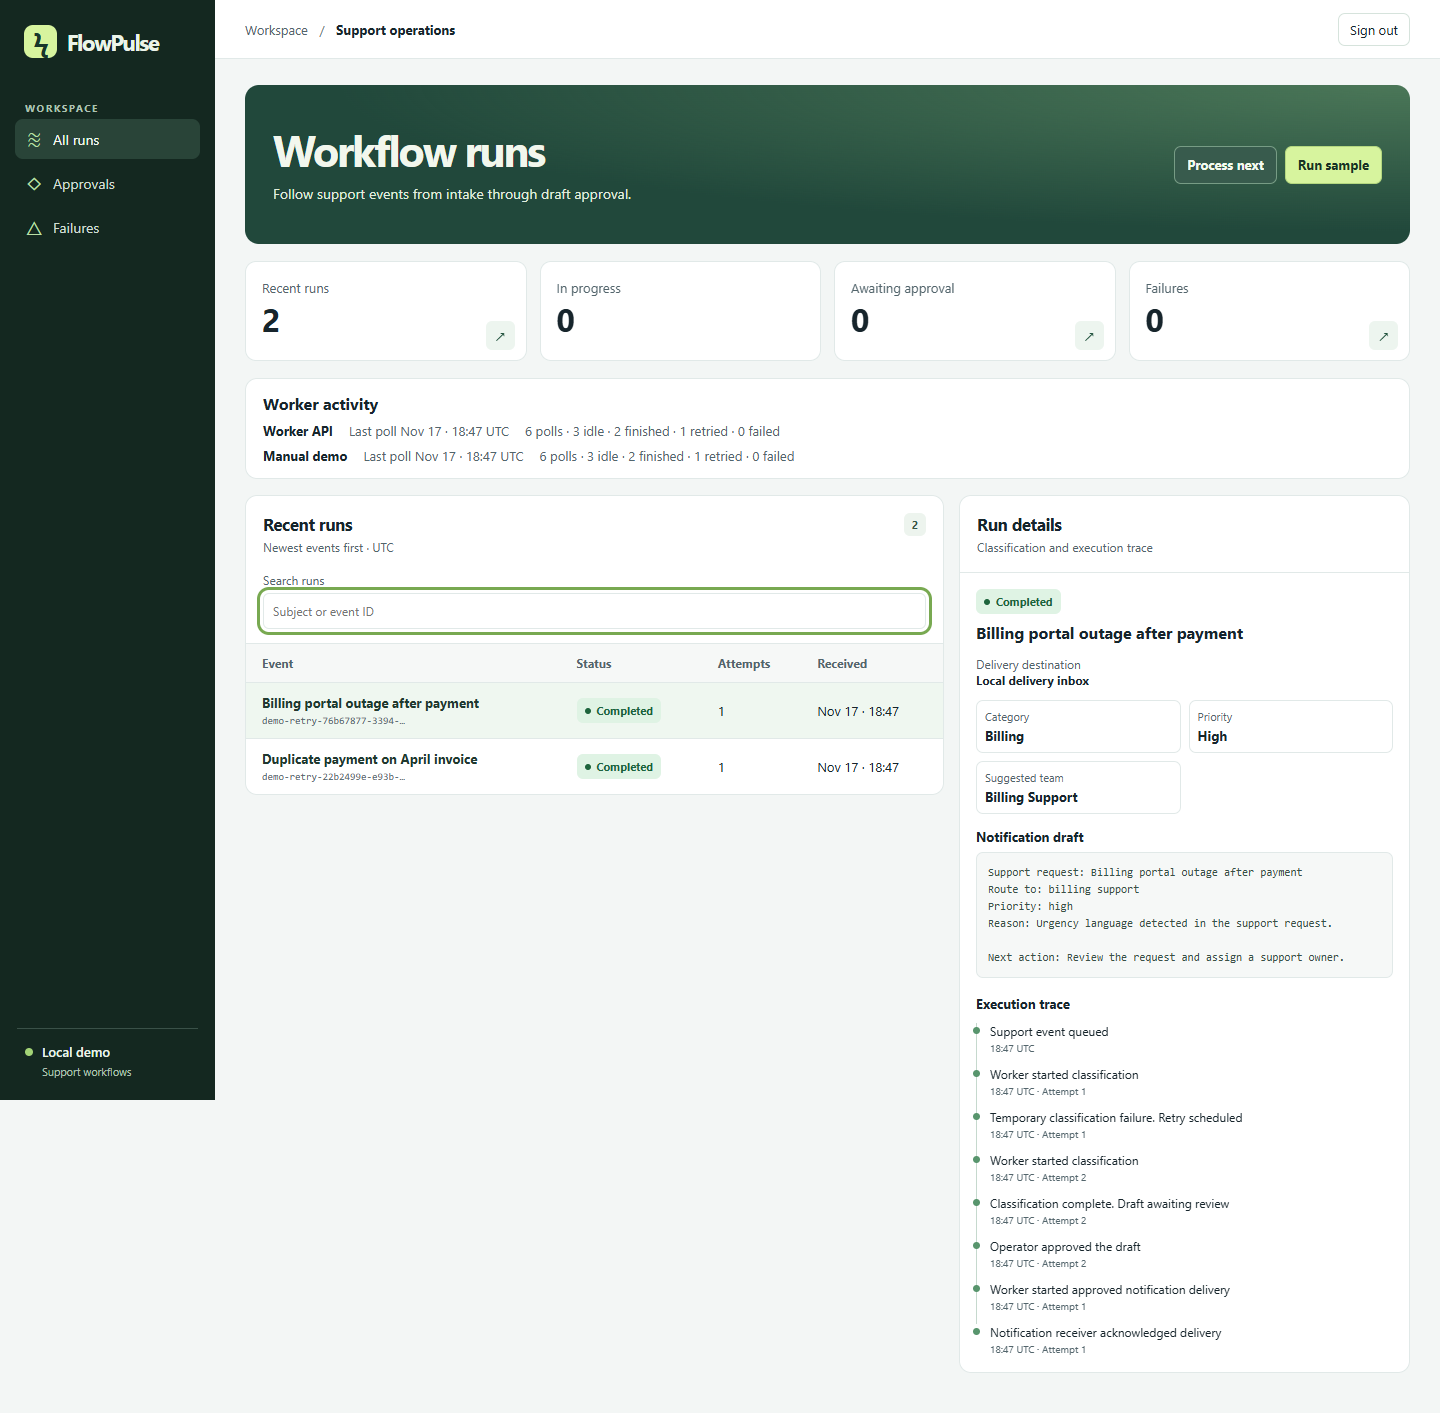
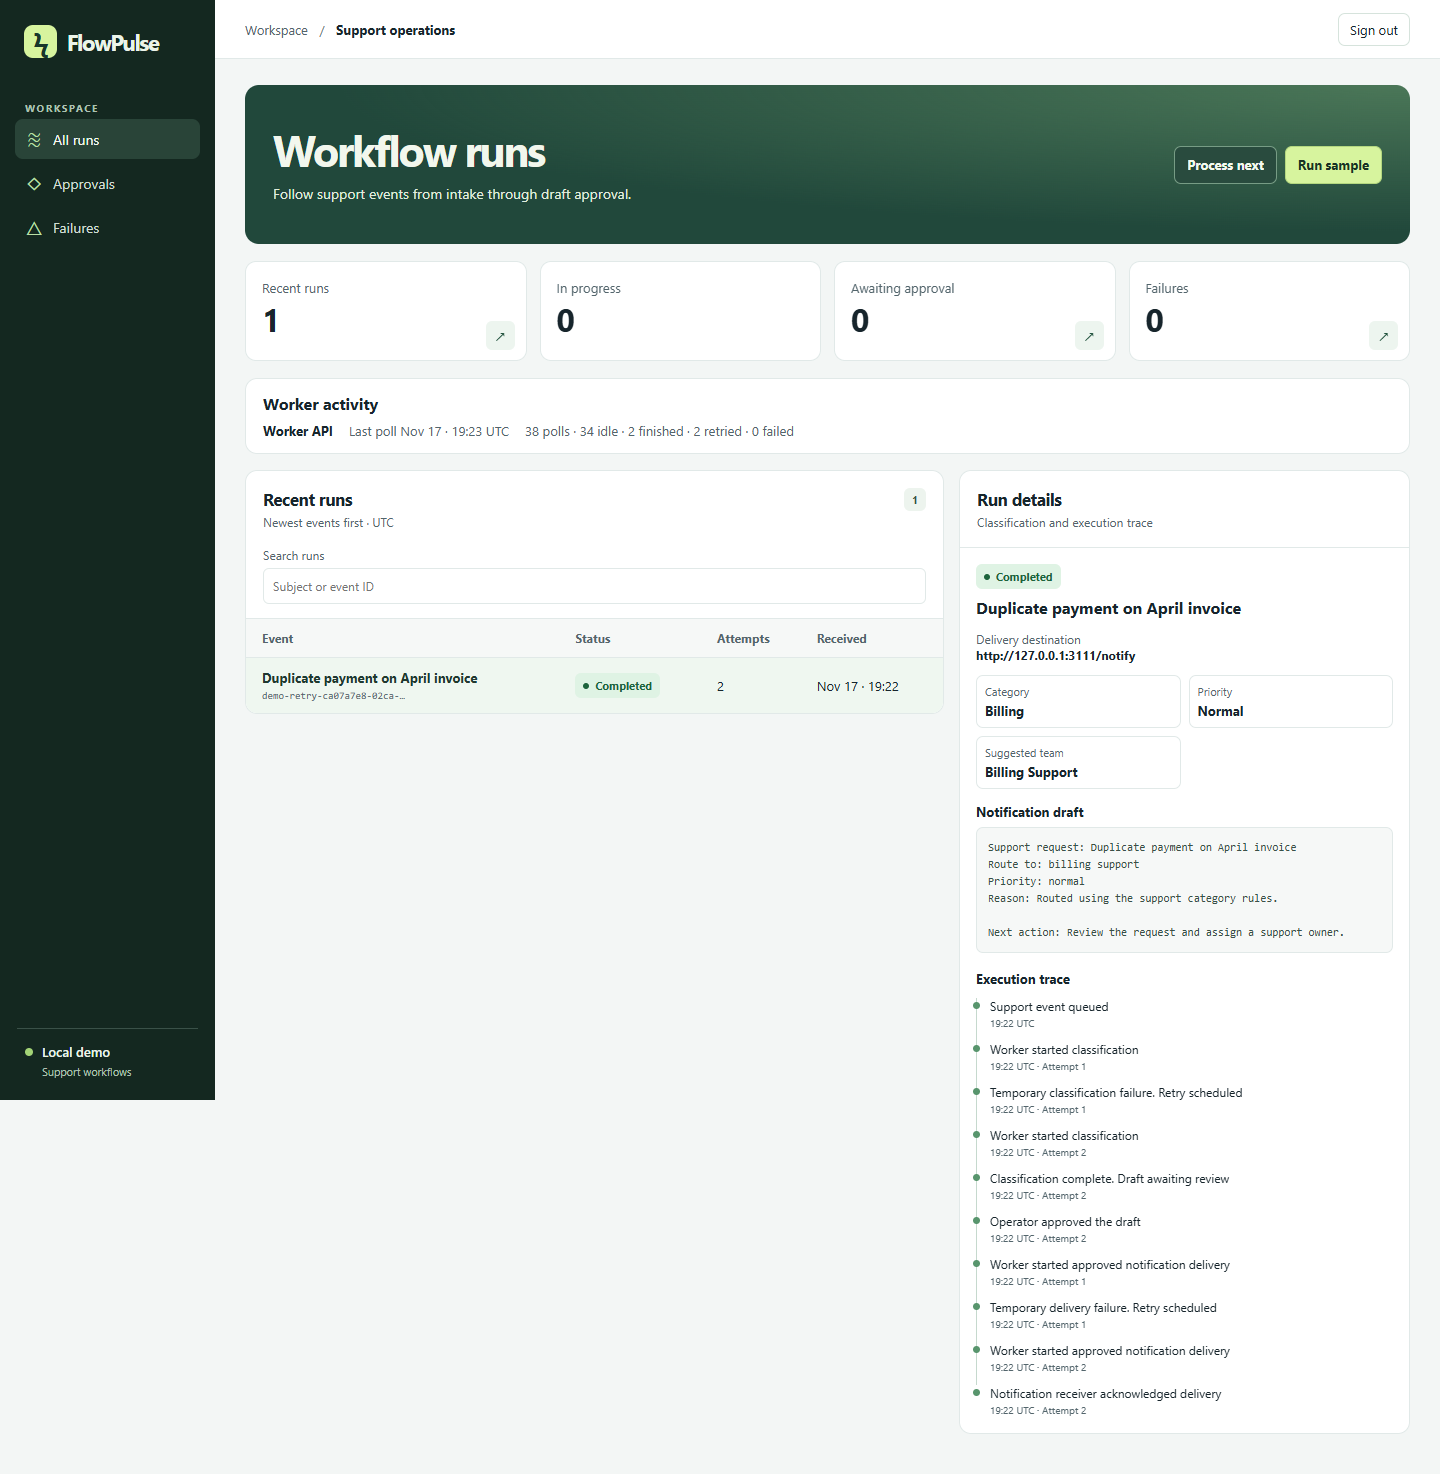
Deliver approved events to an idempotent local receiver

diff --git a/tests/receiver.test.ts b/tests/receiver.test.ts
@@ -1,0 +1,33 @@
+import assert from "node:assert/strict";
+import { randomUUID } from "node:crypto";
+import type { AddressInfo } from "node:net";
+import { test } from "node:test";
+import { createReceiver } from "../scripts/receiver.mjs";
+import { DeliveryError, webhookConnector } from "../src/connector";
+import { readSettings } from "../src/settings";
+
+test("real HTTP receiver deduplicates a lost acknowledgement and rejects changed content or credentials", async t => {
+  const token = "receiver-integration-credential-only";
+  const receiver = createReceiver({ token, dropFirstAck: true });
+  await new Promise<void>(resolve => receiver.server.listen(0, "127.0.0.1", resolve));
+  t.after(() => receiver.close());
+  const origin = "http://127.0.0.1:" + (receiver.server.address() as AddressInfo).port;
+  const connector = webhookConnector(origin + "/notify", token);
+  const notice = { id: randomUUID(), draft: "Approved local notification" };
+  await assert.rejects(connector.send(notice), error => error instanceof DeliveryError && error.transient);
+  await connector.send(notice);
+  await connector.send(notice);
+  const result = await fetch(origin + "/inbox", { headers: { Authorization: "Bearer " + token } });
+  const { receipts } = await result.json();
+  assert.equal(receipts.length, 1);
+  assert.equal(receipts[0].id, notice.id);
+  assert.equal(receipts[0].message, notice.draft);
+  await assert.rejects(connector.send({ ...notice, draft: "Changed" }), error =>
+    error instanceof DeliveryError && !error.transient && error.code === "delivery_rejected");
+  assert.equal((await fetch(origin + "/inbox")).status, 401);
+  const env = { DEMO_MODE: "true", ACTION_CONNECTOR: "webhook", ACTION_WEBHOOK_URL: origin + "/notify", ACTION_WEBHOOK_TOKEN: token };
+  assert.equal(readSettings(env).actionTarget, origin + "/notify");
+  assert.throws(() => readSettings({ ...env, ACTION_WEBHOOK_URL: "http://remote.example.test/notify" }), /notification/);
+  assert.throws(() => readSettings({ ...env, DEMO_MODE: "false", OPERATOR_TOKEN: "o".repeat(32),
+    WORKER_TOKEN: "w".repeat(32), WEBHOOK_SECRET: "s".repeat(32) }), /notification/);
+});

diff --git a/src/settings.ts b/src/settings.ts
@@ -57,8 +57,9 @@ export function readSettings(env: Record<string, string | undefined> = process.e
   } else if (connector === "webhook") {
     const endpoint = new URL(env.ACTION_WEBHOOK_URL ?? "");
     const token = env.ACTION_WEBHOOK_TOKEN;
-    if (endpoint.protocol !== "https:" || endpoint.username || endpoint.password || endpoint.search || endpoint.hash ||
-        endpoint.href.length > 250 || !token || token.length < 32) {
+    const loopbackDemo = demo && endpoint.protocol === "http:" && ["127.0.0.1", "[::1]"].includes(endpoint.hostname);
+    if ((!loopbackDemo && endpoint.protocol !== "https:") || endpoint.username || endpoint.password || endpoint.search || endpoint.hash ||
+        endpoint.href.length > 250 || !token || token.length < 32 || secrets.includes(token)) {
       throw new Error("Invalid notification webhook configuration");
     }
     actionTarget = endpoint.href;

diff --git a/README.md b/README.md
@@ -70,7 +70,7 @@ Send it as `application/json` with `X-FlowPulse-Timestamp` set to Unix time in s
 | `FLOWPULSE_URL` | Base app URL for the worker, demo script and hosted scheduler. |
 | `TRIGGER_PROJECT_REF` | Trigger.dev project reference for task deployment. |
 
-To use Docker Compose, copy the env example and add a URL-safe random `FLOWPULSE_DB_PASSWORD`. Run `docker compose up --build`. The service binds to loopback and uses a persistent PostgreSQL volume. Run the local poller separately or configure the scheduler.
+To use Docker Compose, copy the env example and add a URL-safe random `FLOWPULSE_DB_PASSWORD`. Run `docker compose up --build --wait`. The app binds to loopback, uses a persistent PostgreSQL volume, and starts a worker after its health check passes. The worker shares the app's network namespace and calls its loopback API. Stop with `docker compose down`; named data volumes remain available for the next start.
 
 For Trigger.dev, deploy the app behind HTTPS and set `WORKER_TOKEN` and `FLOWPULSE_URL` in the Trigger.dev environment. Set `TRIGGER_PROJECT_REF` for the CLI and deploy the task with `npx trigger.dev@4.8.5 deploy`. The hourly job claims up to 20 eligible runs and uses the same worker endpoint as the local poller. The hosted schedule and the paid model path require user-provided accounts and credentials.
 
@@ -81,6 +81,20 @@ Worker activity reports the last completed poll and cumulative outcomes for the 
 ### Notification receiver
 
 The webhook connector posts `{"runId":"…","message":"…"}` with the configured bearer token. A receiver must store or deduplicate the run's `Idempotency-Key` before acknowledging it. A 2xx response completes the delivery. Network failures, 408, 429 and 5xx trigger bounded retries with the same key. Use an authorized receiver that supports this contract. If a destination configuration changes after approval, the run fails before sending. Restoring that destination allows an operator to retry the same approved step.
+
+The included local HTTP receiver writes receipts to SQLite before acknowledging them and rejects a changed message under an existing key. It binds to `127.0.0.1:3111` and requires `DEMO_MODE=true`. For a real local delivery demonstration, set these values in `.env`:
+
+```dotenv
+DEMO_MODE=true
+AI_PROVIDER=rules
+ACTION_CONNECTOR=webhook
+ACTION_WEBHOOK_URL=http://127.0.0.1:3111/notify
+ACTION_WEBHOOK_TOKEN=flowpulse-local-receiver-credential
+```
+
+Restart the app, run `npm run receiver -- --drop-first-ack` and `npm run worker` in separate terminals, then run `npm run demo -- --approve --approve-local-receiver --background`. The signed event recovers from classification failure, waits for approval, and reaches the receiver. The receiver deliberately loses its first acknowledgement; retry uses the same run key and stores one receipt. The dashboard shows both recovery stages and delivery to the actual URL. Authenticated `GET http://127.0.0.1:3111/inbox` exposes the local receipts. The example receiver credential is public and intended only for this loopback demo.
+
+Alternatively, with a configured `FLOWPULSE_DB_PASSWORD`, use `docker compose --profile receiver up --build --wait` and run the same demo command. The optional receiver profile includes the simulated acknowledgement loss and a persistent receipt volume. HTTP notification destinations are restricted to literal loopback addresses in demo mode; non-demo delivery requires HTTPS. Use a separate delivery credential, distinct from the operator, worker and intake credentials.
 
 ## Verification
 
